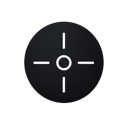
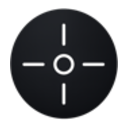
feat: wire up storage bridge and rebrand to Selector
- add assets/storage-bridge.js content script proxying chrome.storage from the
  ISOLATED world, completing the MAIN-world caller already present in editor.js
- keyboard navigation now moves the active selection (moveActiveSelection)
  instead of stacking duplicate tags, while annotated selections stay put
- close / Clear / tag-remove can force-clear annotated selections
- rebrand name, description, README, install page and privacy page to
  "Selector - Visual Element Picker"; bump to 1.2.7 and refresh icons
- add chrome-web-store-listing.md and regression tests for the new behaviour

diff --git a/tests/selector.spec.js b/tests/selector.spec.js
@@ -46,6 +46,19 @@ test.describe('Launcher', () => {
     await page.locator('[data-action="close"]').click();
     await expect(launcher(page)).not.toHaveClass(/ai-editor-launcher-active/);
   });
+
+  test('close button clears a selected element with an instruction', async ({ page }) => {
+    await activate(page);
+    await page.locator('#intro-para').click();
+    await page.locator('.ai-editor-annotate-btn').click({ force: true });
+    await page.locator('.ai-editor-annotate-input').fill('Discard this instruction');
+    await page.locator('.ai-editor-annotate-done').click({ force: true });
+
+    await page.locator('[data-action="close"]').click();
+
+    await expect(page.locator('.ai-editor-sel-box')).toHaveCount(0);
+    await expect(page.locator('.ai-editor-chat-panel')).toHaveCount(0);
+  });
 });
 
 // ── Selection ─────────────────────────────────────────────
@@ -99,6 +112,20 @@ test.describe('Clear', () => {
     await expect(page.locator('.ai-editor-sel-box')).toHaveCount(0);
   });
 
+  test('Clear button removes all selected elements, including instructions', async ({ page }) => {
+    await activate(page);
+    await page.locator('#intro-para').click();
+    await page.locator('.ai-editor-annotate-btn').click({ force: true });
+    await page.locator('.ai-editor-annotate-input').fill('Discard this instruction');
+    await page.locator('.ai-editor-annotate-done').click({ force: true });
+    await page.locator('#action-btn').click({ modifiers: ['Shift'] });
+
+    await page.locator('.ai-editor-tags-action').click({ force: true });
+
+    await expect(page.locator('.ai-editor-tag')).toHaveCount(0);
+    await expect(page.locator('.ai-editor-sel-box')).toHaveCount(0);
+  });
+
   test('tag X button removes only that element', async ({ page }) => {
     await activate(page);
     await page.locator('#intro-para').click();
@@ -123,7 +150,7 @@ test.describe('Clear', () => {
     await expect(page.locator('.ai-editor-tag-label')).toContainText('intro-para');
   });
 
-  test('tag remove retains a selected element with an instruction', async ({ page }) => {
+  test('tag remove clears a selected element and its instruction', async ({ page }) => {
     await activate(page);
     await page.locator('#intro-para').click();
     await page.locator('.ai-editor-annotate-btn').click({ force: true });
@@ -132,7 +159,8 @@ test.describe('Clear', () => {
 
     await page.locator('.ai-editor-tag-x').click({ force: true });
 
-    await expect(page.locator('.ai-editor-tag')).toHaveCount(1);
+    await expect(page.locator('.ai-editor-tag')).toHaveCount(0);
+    await expect(page.locator('.ai-editor-sel-box')).toHaveCount(0);
   });
 
   test('clearing an instruction makes its selection removable', async ({ page }) => {
@@ -235,32 +263,44 @@ test.describe('Keyboard Navigation', () => {
     await expect(page.locator('.ai-editor-tag-label').filter({ hasText: '#item-1' })).toHaveCount(1);
   });
 
-  test('ArrowRight navigates from the last selected element without removing earlier selections', async ({ page }) => {
+  test('ArrowRight replaces the active selection while retaining earlier Shift selections', async ({ page }) => {
     await activate(page);
     await page.locator('#intro-para').click();
     await page.locator('#item-1').click({ modifiers: ['Shift'] });
 
     await page.keyboard.press('ArrowRight');
 
-    await expect(page.locator('.ai-editor-tag')).toHaveCount(3);
+    await expect(page.locator('.ai-editor-tag')).toHaveCount(2);
     await expect(page.locator('.ai-editor-tag-label').nth(0)).toContainText('intro-para');
-    await expect(page.locator('.ai-editor-tag-label').nth(1)).toContainText('item-1');
-    await expect(page.locator('.ai-editor-tag-label').nth(2)).toContainText('item-2');
+    await expect(page.locator('.ai-editor-tag-label').nth(1)).toContainText('item-2');
   });
 
-  test('navigation to an existing selection keeps prompt order and updates the active element', async ({ page }) => {
+  test('navigation to an earlier selection replaces the active element without duplicates', async ({ page }) => {
     await activate(page);
     await page.locator('#item-1').click();
     await page.locator('#item-2').click({ modifiers: ['Shift'] });
 
     await page.keyboard.press('ArrowLeft');
 
-    await expect(page.locator('.ai-editor-tag')).toHaveCount(2);
+    await expect(page.locator('.ai-editor-tag')).toHaveCount(1);
     await expect(page.locator('.ai-editor-tag-label').nth(0)).toContainText('item-1');
-    await expect(page.locator('.ai-editor-tag-label').nth(1)).toContainText('item-2');
     const activeTop = await page.locator('.ai-editor-sel-box.ai-editor-active').evaluate((el) => el.getBoundingClientRect().top);
     const itemOneTop = await page.locator('#item-1').evaluate((el) => el.getBoundingClientRect().top);
     expect(activeTop).toBeLessThanOrEqual(itemOneTop);
+  });
+
+  test('navigation retains an active selection with an instruction', async ({ page }) => {
+    await activate(page);
+    await page.locator('#item-1').click();
+    await page.locator('.ai-editor-annotate-btn').click({ force: true });
+    await page.locator('.ai-editor-annotate-input').fill('Keep this instruction');
+    await page.locator('.ai-editor-annotate-done').click({ force: true });
+
+    await page.keyboard.press('ArrowRight');
+
+    await expect(page.locator('.ai-editor-tag')).toHaveCount(2);
+    await expect(page.locator('.ai-editor-tag-label').nth(0)).toContainText('item-1');
+    await expect(page.locator('.ai-editor-tag-label').nth(1)).toContainText('item-2');
   });
 });
 

diff --git a/assets/editor.js b/assets/editor.js
@@ -512,11 +512,11 @@
     }
   }
 
-  function removeSelection(el) {
+  function removeSelection(el, force = false) {
     const idx = selectedElements.indexOf(el);
     if (idx >= 0) {
       const aiId = el.getAttribute(AI_ID);
-      if (annotations.has(aiId)) return false;
+      if (annotations.has(aiId) && !force) return false;
       selectedElements.splice(idx, 1);
       destroySelOverlay(aiId);
       annotations.delete(aiId);
@@ -534,8 +534,8 @@
     }
   }
 
-  function clearSelection() {
-    for (const el of [...selectedElements]) removeSelection(el);
+  function clearSelection(force = false) {
+    for (const el of [...selectedElements]) removeSelection(el, force);
     removeAnnotationPopover();
   }
 
@@ -564,15 +564,20 @@
   }
 
   // ── Parent / child navigation ─────────────────────────────
+  function moveActiveSelection(target) {
+    pushHistory();
+    removeSelection(activeElement);
+    addSelection(target);
+    updateTags();
+  }
+
   function navigateToParent() {
     const el = activeElement;
     if (!el) return;
     let parent = el.parentElement;
     while (parent && parent !== document.body && parent !== document.documentElement) {
       if (!isEditorElement(parent) && isVisible(parent)) {
-        pushHistory();
-        addSelection(parent);
-        updateTags();
+        moveActiveSelection(parent);
         return;
       }
       parent = parent.parentElement;
@@ -584,9 +589,7 @@
     if (!el) return;
     for (const child of el.children) {
       if (!isEditorElement(child) && isVisible(child) && isMeaningful(child)) {
-        pushHistory();
-        addSelection(child);
-        updateTags();
+        moveActiveSelection(child);
         return;
       }
     }
@@ -603,9 +606,7 @@
     const idx = siblings.indexOf(el);
     const next = siblings[idx + dir];
     if (next) {
-      pushHistory();
-      addSelection(next);
-      updateTags();
+      moveActiveSelection(next);
     }
   }
 
@@ -832,7 +833,7 @@
         btn.addEventListener("click", (e) => {
           e.stopPropagation();
           const el = byAiId(btn.dataset.aiid);
-          if (el) removeSelection(el);
+          if (el) removeSelection(el, true);
           updateTags();
         }, true);
       });
@@ -841,7 +842,7 @@
       clearAllBtn.className = `${NS}-tags-action`;
       clearAllBtn.title = "Clear all";
       setHTML(clearAllBtn, `<svg width="8" height="8" viewBox="0 0 8 8" fill="none"><line x1="1" y1="1" x2="7" y2="7" stroke="currentColor" stroke-width="1.5" stroke-linecap="round"/><line x1="7" y1="1" x2="1" y2="7" stroke="currentColor" stroke-width="1.5" stroke-linecap="round"/></svg> Clear`);
-      clearAllBtn.onclick = (e) => { e.stopPropagation(); clearSelection(); updateTags(); };
+      clearAllBtn.onclick = (e) => { e.stopPropagation(); clearSelection(true); updateTags(); };
       container.appendChild(clearAllBtn);
     } else {
       container.classList.add(`${NS}-hidden`);

diff --git a/assets/storage-bridge.js b/assets/storage-bridge.js
@@ -1,0 +1,32 @@
+/**
+ * Storage bridge: runs in the extension's ISOLATED world so it can reach
+ * chrome.storage.local, and proxies get/set calls coming from the MAIN-world
+ * content script (editor.js) via window.postMessage.
+ *
+ * Why a bridge? editor.js runs in MAIN world to walk React fibers, but MAIN
+ * world has no access to chrome.* APIs. This file is the smallest possible
+ * shim that gives editor.js cross-page persistence.
+ */
+/* global chrome */
+(function () {
+  "use strict";
+
+  const NS = "__aiEditorStorage";
+
+  window.addEventListener("message", (e) => {
+    if (e.source !== window) return;
+    const d = e.data;
+    if (!d || d.__ns !== NS) return;
+
+    if (d.op === "get") {
+      chrome.storage.local.get([d.key], (res) => {
+        window.postMessage(
+          { __ns: NS, op: "getResult", reqId: d.reqId, value: res[d.key] },
+          "*"
+        );
+      });
+    } else if (d.op === "set") {
+      chrome.storage.local.set({ [d.key]: d.value });
+    }
+  });
+})();

diff --git a/index.html b/index.html
@@ -90,7 +90,7 @@ document.addEventListener("DOMContentLoaded", function () {
       <div class="step-body">
         <div class="step-title">Install the extension</div>
         <a class="bm" href="https://chrome.google.com/webstore" target="_blank" style="cursor:pointer">Chrome Web Store</a>
-        <p class="note">Chrome &middot; Edge &middot; Arc &mdash; one-time setup</p>
+        <p class="note">Chromium-based browsers &mdash; one-time setup</p>
       </div>
     </div>
     <div class="step">
@@ -108,7 +108,7 @@ document.addEventListener("DOMContentLoaded", function () {
         <div class="step-title">Click an element &rarr; Copy &rarr; Paste into your AI</div>
         <p class="note">
           <span class="kbd">&#8984;C</span> copies a structured prompt with element metadata<br>
-          Paste into Claude Code &middot; Codex &middot; Cursor &middot; any AI assistant
+          Paste into your AI coding assistant
         </p>
       </div>
     </div>

diff --git a/privacy.html b/privacy.html
@@ -12,10 +12,10 @@
 </head>
 <body>
   <h1>Privacy Policy</h1>
-  <p><strong>AI Element Picker for Claude &amp; Codex</strong><br>Last updated: May 2025</p>
+  <p><strong>Selector - Visual Element Picker</strong><br>Last updated: June 2026</p>
 
   <h2>Data Collection</h2>
-  <p>AI Element Picker does <strong>not</strong> collect, store, or transmit any personal data or browsing activity. The extension operates entirely client-side within your browser.</p>
+  <p>Selector does <strong>not</strong> collect, store, or transmit any personal data or browsing activity. The extension operates entirely client-side within your browser.</p>
 
   <h2>Permissions</h2>
   <p>The extension requests access to all URLs solely to allow you to select DOM elements on any webpage you choose. No page content, URLs, or element data is sent to any external server.</p>

diff --git a/README.md b/README.md
@@ -1,17 +1,17 @@
-# AI Element Picker for Claude & Codex
+# Selector - Visual Element Picker
 
-Visually select any DOM element and copy an AI prompt — for Claude Code, Codex, Cursor, Copilot, or any AI coding assistant.
+Visually select any DOM element and copy a structured prompt for an AI coding assistant.
 
-> Forked from [oil-oil/selector](https://github.com/oil-oil/selector). Added Chrome/Edge/Arc browser extension support.
+> Forked from [oil-oil/selector](https://github.com/oil-oil/selector). Added browser extension support.
 
-A browser extension that lets you point and click any element on any webpage, add instructions, and copy a structured AI prompt. Perfect for vibe coding workflows with Claude Code, Codex, Cursor, or GitHub Copilot.
+A browser extension that lets you point and click any element on any webpage, add instructions, and copy a structured AI prompt.
 
 ## Install
 
 1. Install from the Chrome Web Store
 2. Done — a launcher button appears on every page
 
-Works with Chrome, Edge, and Arc.
+Works in Chromium-based browsers that support Chrome extensions.
 
 ## Usage
 

diff --git a/chrome-web-store-listing.md b/chrome-web-store-listing.md
@@ -1,0 +1,26 @@
+# Chrome Web Store Listing
+
+Use this text when resubmitting after a Yellow Argon keyword-stuffing rejection.
+
+## Short Description
+
+Select page elements visually and copy a structured prompt with selectors, text, HTML, and React component details.
+
+## Full Description
+
+Selector adds a small launcher to webpages so you can visually pick DOM elements and copy a structured prompt for code editing.
+
+Select one or more elements, add optional per-element instructions, then copy a prompt that includes useful context such as:
+
+- page URL
+- CSS selector
+- tag name
+- visible text
+- HTML snippet
+- React component chain and debug source when available
+
+Everything runs locally in your browser. Selector has no backend, analytics, tracking, or account requirement.
+
+## Reviewer Notes
+
+This update removes the previous brand compatibility list from the store description and replaces it with a direct feature description. The extension does not claim endorsement by any AI tool, browser, or third-party brand.
